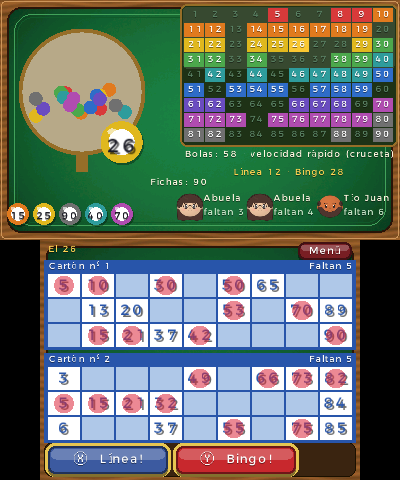
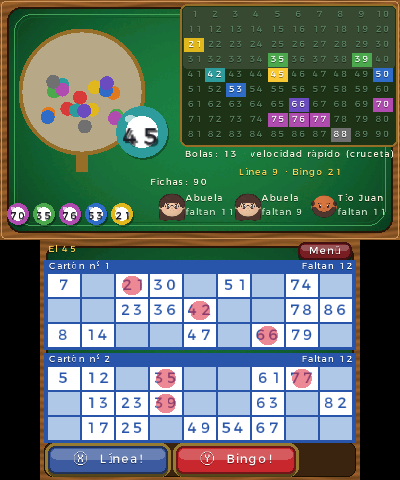
Bingo: números del cartón sin sombra
- gfx_textf_plain dibuja texto sin sombra
- Los rivales del bingo, más separados

Claude-Session: https://claude.ai/code/session_013AGSh6QGdQokmtkYD1xhrB

diff --git a/source/ui/gfx.c b/source/ui/gfx.c
@@ -291,7 +291,7 @@ C2D_TextBuf gfx_textbuf(void)
 	return s_textbuf;
 }
 
-void gfx_text(const char* str, float x, float y, float depth, float scale, u32 color, u32 align)
+static void draw_text(const char* str, float x, float y, float depth, float scale, u32 color, u32 align, bool shadow)
 {
 	if (!str || !*str)
 		return;
@@ -303,11 +303,26 @@ void gfx_text(const char* str, float x, float y, float depth, float scale, u32 c
 	x = floorf(x + gfx_dx(depth) + 0.5f);
 	y = floorf(y + 0.5f);
 	/* Sombra solo hacia abajo y suave en el texto pequeño, para no emborronarlo */
-	if (scale > 0.6f)
+	if (shadow && scale > 0.6f)
 		C2D_DrawText(&text, C2D_WithColor | align, x + 2, y + 2, 0.5f, scale, scale, COLOR_SHADOW);
-	else
+	else if (shadow)
 		C2D_DrawText(&text, C2D_WithColor | align, x, y + 1, 0.5f, scale, scale, C2D_Color32(0, 0, 0, 110));
 	C2D_DrawText(&text, C2D_WithColor | align, x, y, 0.5f, scale, scale, color);
+}
+
+void gfx_text(const char* str, float x, float y, float depth, float scale, u32 color, u32 align)
+{
+	draw_text(str, x, y, depth, scale, color, align, true);
+}
+
+void gfx_textf_plain(float x, float y, float depth, float scale, u32 color, u32 align, const char* fmt, ...)
+{
+	char buf[256];
+	va_list ap;
+	va_start(ap, fmt);
+	vsnprintf(buf, sizeof buf, fmt, ap);
+	va_end(ap);
+	draw_text(buf, x, y, depth, scale, color, align, false);
 }
 
 void gfx_textf(float x, float y, float depth, float scale, u32 color, u32 align, const char* fmt, ...)

diff --git a/source/ui/gfx.h b/source/ui/gfx.h
@@ -131,6 +131,9 @@ void gfx_textf(float x, float y, float depth, float scale, u32 color, u32 align,
 	__attribute__((format(printf, 7, 8)));
 float gfx_text_width(const char* str, float scale);
 /* Texto alineado a la izquierda que salta de línea al llegar a width. */
+/* Igual que gfx_textf, pero sin sombra */
+void gfx_textf_plain(float x, float y, float depth, float scale, u32 color, u32 align, const char* fmt, ...)
+	__attribute__((format(printf, 7, 8)));
 void gfx_text_wrap(const char* str, float x, float y, float depth, float scale, u32 color, float width);
 
 void gfx_rect(float x, float y, float w, float h, float depth, u32 color);

diff --git a/source/scenes/bingo_scene.c b/source/scenes/bingo_scene.c
@@ -410,7 +410,7 @@ static void draw_card(int i, float x, float y)
 			gfx_rect(cx + 1, yy + 1, CELL_W - 2, CELL_H - 2, 0, fill);
 			if (!n)
 				continue;
-			gfx_textf(cx + CELL_W / 2, yy + 2, 0, 0.75f, blue, C2D_AlignCenter, "%d", n);
+			gfx_textf_plain(cx + CELL_W / 2, yy + 2, 0, 0.75f, blue, C2D_AlignCenter, "%d", n);
 			if (c->marked[r][k])
 				gfx_ellipse(cx + CELL_W / 2, yy + CELL_H / 2, 10, 10, 0, C2D_Color32(220, 40, 60, 140));
 			else if (!s_auto && s_game.drawn[n])
